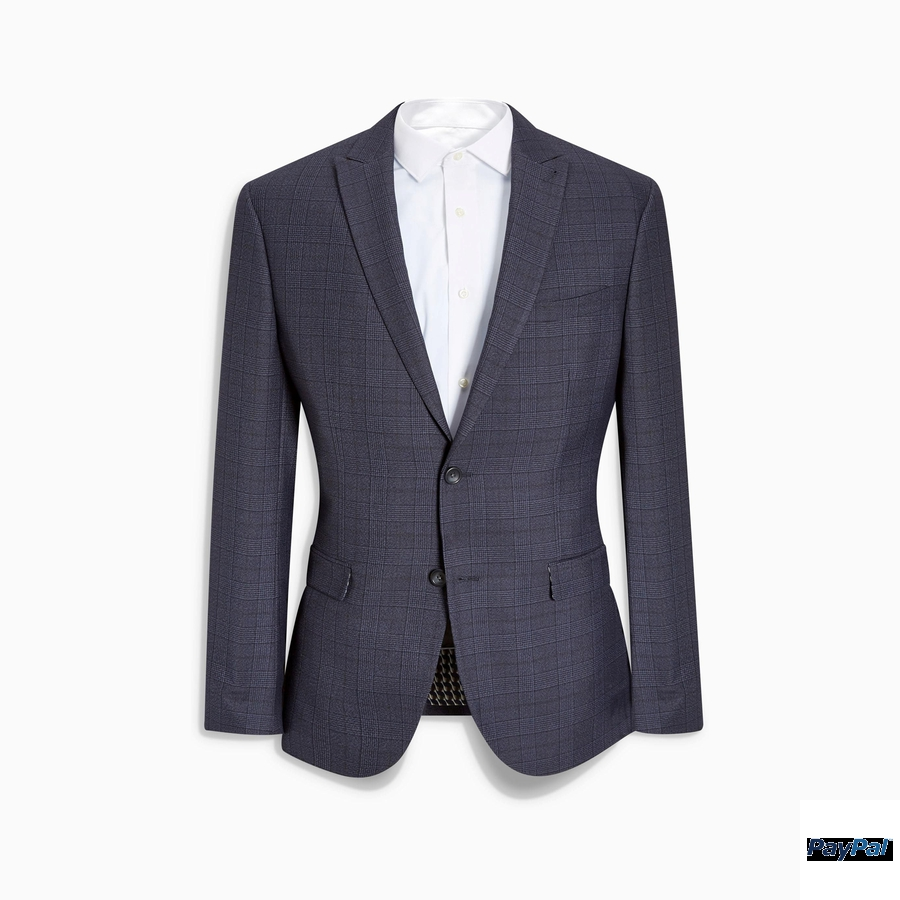
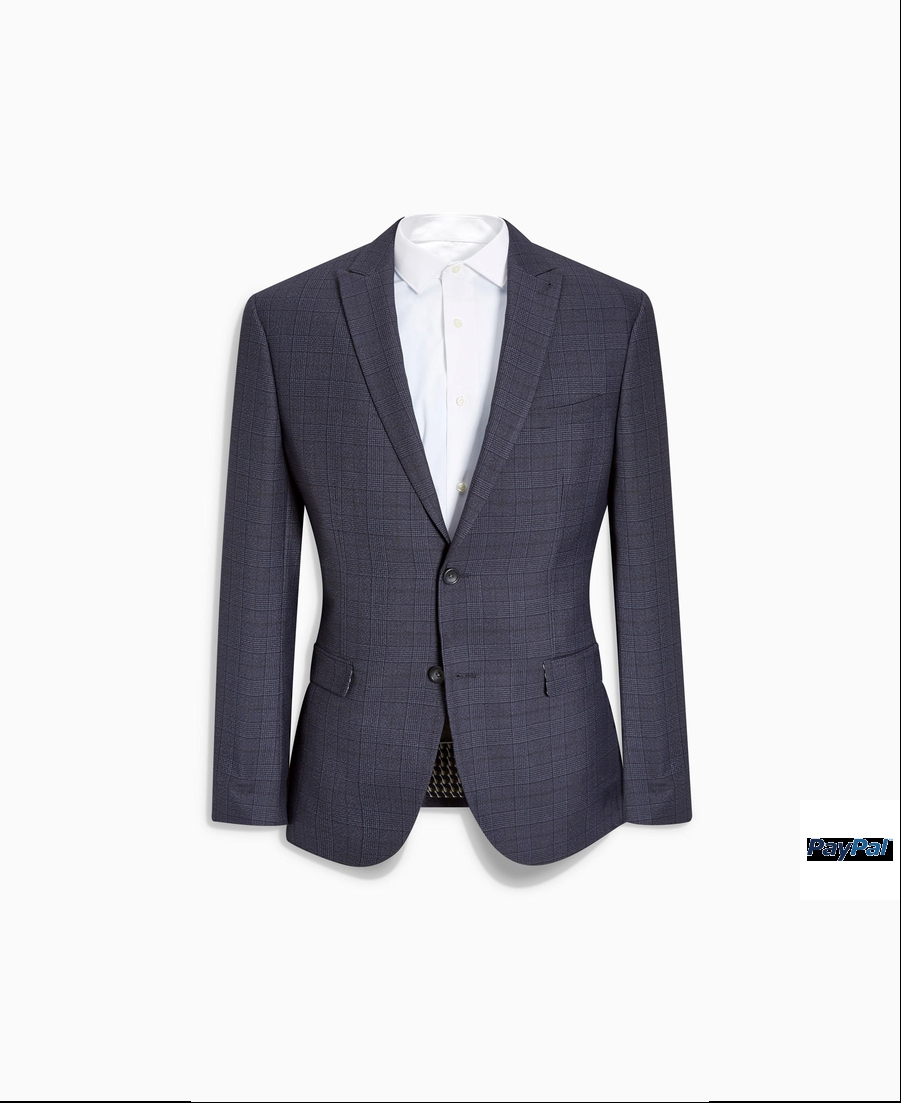
[Add] Background blending feature!

diff --git a/EdgeFind.py b/EdgeFind.py
@@ -1,6 +1,7 @@
 from PIL import Image
 from operator import itemgetter
 
+
 def GetTopPixel(threshold, image, rgbImgWidth, rgbImgHeight, r, g, b):
 	topPixel = (0, 0)
 	for i in range(rgbImgHeight):
@@ -9,6 +10,7 @@ def GetTopPixel(threshold, image, rgbImgWidth, rgbImgHeight, r, g, b):
 			if ((currentR > (1 + threshold) * r) or (currentR < threshold * r)) and ((currentG > (1 + threshold) * g) or (currentG < threshold * g)) and ((currentB > (1 + threshold) * b) or (currentB < threshold * b)):
 				topPixel = (j , i)
 				return topPixel
+
 
 def GetBottomPixel(threshold, image, rgbImgWidth, rgbImgHeight, r, g, b):
 	bottomPixel = (0, 0)
@@ -19,6 +21,7 @@ def GetBottomPixel(threshold, image, rgbImgWidth, rgbImgHeight, r, g, b):
 				bottomPixel = (j , i)
 				return bottomPixel
 
+
 def GetLeftPixel(threshold, image, rgbImgWidth, rgbImgHeight, r, g, b):
 	leftPixel = (0, 0)
 	for i in range(rgbImgWidth):
@@ -27,7 +30,8 @@ def GetLeftPixel(threshold, image, rgbImgWidth, rgbImgHeight, r, g, b):
 			if ((currentR > (1 + threshold) * r) or (currentR < threshold * r)) and ((currentG > (1 + threshold) * g) or (currentG < threshold * g)) and ((currentB > (1 + threshold) * b) or (currentB < threshold * b)):
 				leftPixel = (i , j)
 				return leftPixel
-				
+	
+
 def GetRightPixel(threshold, image, rgbImgWidth, rgbImgHeight, r, g, b):
 	rightPixel = (0, 0)
 	for i in reversed(range(rgbImgWidth)):
@@ -36,6 +40,7 @@ def GetRightPixel(threshold, image, rgbImgWidth, rgbImgHeight, r, g, b):
 			if ((currentR > (1 + threshold) * r) or (currentR < threshold * r)) and ((currentG > (1 + threshold) * g) or (currentG < threshold * g)) and ((currentB > (1 + threshold) * b) or (currentB < threshold * b)):
 				rightPixel = (i , j)
 				return rightPixel
+
 
 def FindEdges(threshold, image, r, g, b):
 	rgbImg = image.convert('RGB')
@@ -48,45 +53,80 @@ def FindEdges(threshold, image, r, g, b):
 
 	return topPixel, bottomPixel, leftPixel, rightPixel
 
+
 def CropImage(topPixel, bottomPixel, leftPixel, rightPixel, image):
 	leftPixel, topPixel, rightPixel, bottomPixel = GetBufferPixels(topPixel, bottomPixel, leftPixel, rightPixel, image)
 	image = image.crop((leftPixel[0], topPixel[1], rightPixel[0], bottomPixel[1]))
 	#"The crop rectangle, as a (left, upper, right, lower)-tuple."
 	return image
 
-def FindBackgroundColour(image):
+
+def GetBackgroundColour(image):
+	redPixels, greenPixels, bluePixels = GetBorderPixels(image)
+	averagePixel = (round(sum(redPixels) / len(redPixels)), round(sum(greenPixels) / len(greenPixels)), round(sum(bluePixels) / len(bluePixels)))
+	return averagePixel
+
+
+def GetBorderPixels(image):
 	imageWidth, imageHeight = image.size
 	redPixels = []
 	greenPixels = []
 	bluePixels = []
 
-	for x in range(imageWidth - 1):
+	for x in range(imageWidth ):
 		pixel = image.getpixel((x, 0))	
 		redPixels.append(pixel[0])
 		greenPixels.append(pixel[1])
 		bluePixels.append(pixel[2])
-	for x in range(imageWidth - 1):
+	for x in range(imageWidth):
 		pixel = image.getpixel((x, imageHeight - 1))	
 		redPixels.append(pixel[0])
 		greenPixels.append(pixel[1])
 		bluePixels.append(pixel[2])
-	for y in range(imageHeight - 1):
+	for y in range(imageHeight):
 		pixel = image.getpixel((0, y))	
 		redPixels.append(pixel[0])
 		greenPixels.append(pixel[1])
 		bluePixels.append(pixel[2])
-	for y in range(imageHeight - 1):
+	for y in range(imageHeight):
 		pixel = image.getpixel((imageWidth - 1, y))	
 		redPixels.append(pixel[0])
 		greenPixels.append(pixel[1])
 		bluePixels.append(pixel[2])
+	return redPixels, greenPixels, bluePixels
 
-################################################
-# CREATE FUNCTION FOR THIS!!!!! AND FOR FIRST FUNCTIONS!
-################################################
 
-	averagePixel = (round(sum(redPixels) / len(redPixels)), round(sum(greenPixels) / len(greenPixels)), round(sum(bluePixels) / len(bluePixels)))
-	return averagePixel
+def GetBufferPixels(topPixel, bottomPixel, leftPixel, rightPixel, image):
+	imageWidth, imageHeight = image.size
+	borderPercentage = 0.03
+
+	if leftPixel[0] - round(borderPercentage * imageWidth) >= 0:
+		leftPixel = (leftPixel[0] - round(borderPercentage * imageWidth), leftPixel[1])
+	else:
+		leftPixel = (0, leftPixel[1])
+	if topPixel[1] - round(borderPercentage * imageHeight) >= 0:
+		topPixel = (topPixel[0], topPixel[1] - round(borderPercentage * imageHeight))
+	else:
+		topPixel = (topPixel[0], 0)
+	if rightPixel[0] + round(borderPercentage * imageWidth) <= imageWidth:
+		rightPixel = (rightPixel[0] + round(borderPercentage * imageWidth), rightPixel[1])
+	else:
+		rightPixel = (imageWidth, rightPixel[1])
+	if bottomPixel[1] + round(borderPercentage * imageWidth) <= imageHeight:
+		bottomPixel = (bottomPixel[0], bottomPixel[1] + round(borderPercentage * imageHeight))
+	else:
+		bottomPixel = (bottomPixel[0], imageHeight)
+	# Buffers away from the detected edges to avoid small clipping
+	return leftPixel, topPixel, rightPixel, bottomPixel
+
+	
+def SeperateBorders(imageWidth, imageHeight, borderPixels):
+	topPixels = borderPixels[0:imageWidth]
+	bottomPixels = borderPixels[imageWidth:2*imageWidth]
+	leftPixels = borderPixels[2*imageWidth:2*imageWidth + imageHeight]
+	rightPixels = borderPixels[2*imageWidth + imageHeight:len(borderPixels)]
+	return topPixels, bottomPixels, leftPixels, rightPixels
+
 
 def SeperateRGB(colour):
 	r = colour[0]
@@ -94,42 +134,13 @@ def SeperateRGB(colour):
 	b = colour[2]
 	return r, g, b
 
-def GetBufferPixels(topPixel, bottomPixel, leftPixel, rightPixel, image):
-	imageWidth, imageHeight = image.size
 
-	if leftPixel[0] - round(0.01 * imageWidth) >= 0:
-		leftPixel = (leftPixel[0] - round(0.01 * imageWidth), leftPixel[1])
-	else:
-		leftPixel = (0, leftPixel[1])
-	if topPixel[1] - round(0.01 * imageHeight) >= 0:
-		topPixel = (topPixel[0], topPixel[1] - round(0.01 * imageHeight))
-	else:
-		topPixel = (topPixel[0], 0)
-	if rightPixel[0] + round(0.01 * imageWidth) <= imageWidth:
-		rightPixel = (rightPixel[0] + round(0.01 * imageWidth), rightPixel[1])
-	else:
-		rightPixel = (imageWidth, rightPixel[1])
-	if bottomPixel[1] + round(0.01 * imageWidth) <= imageHeight:
-		bottomPixel = (bottomPixel[0], bottomPixel[1] + round(0.01 * imageHeight))
-	else:
-		bottomPixel = (bottomPixel[0], imageHeight)
-	# Buffers away from the detected edges to avoid small clipping
-	return leftPixel, topPixel, rightPixel, bottomPixel
+def CombineRGB(redPixels, greenPixels, bluePixels):
+	pixels = []
+	for i in range(len(redPixels)):
+		pixels.append((redPixels[i], greenPixels[i], bluePixels[i]))
+	return pixels
 
-def BlendBackgrounds(image, backgroundColour):
-	image = image.convert('RGB')
-	imageWidth, imageHeight = image.size
-	buffLeftPixel, buffTopPixel, buffRightPixel, buffBottomPixel = GetBufferPixels(topPixel, bottomPixel, leftPixel, rightPixel, image)
-	backgroundSnippet = Image.new('RGB', (10, topPixel[1] - buffTopPixel[1]), backgroundColour)
-
-	test = Image.new('RGB', (10, topPixel[1] - buffTopPixel[1]), (255, 0, 0))
-
-	for x in range(0, buffRightPixel[0] - buffLeftPixel[0] + 10, 10):
-		snippet = image.crop((buffLeftPixel[0] + x, buffTopPixel[1], buffLeftPixel[0] + x + 10, buffTopPixel[1] + (topPixel[1] - buffTopPixel[1])))
-		blendedSnippet = Image.blend(snippet, backgroundSnippet, 0.5)
-		image.paste(test, (buffLeftPixel[0] + x, buffTopPixel[1]))
-
-	return image
 
 def ScaleImage(image, inputWidth, inputHeight):
 		imageWidth, imageHeight = image.size		
@@ -145,14 +156,67 @@ def ScaleImage(image, inputWidth, inputHeight):
 		else:
 			scaledHeight = inputHeight
 			scaledWidth = inputWidth
-			
+
 		return image.resize((round(scaledWidth * 0.8), round(scaledHeight * 0.8)), Image.LANCZOS)
 		# 0.8 multiplier to make sure there is a border between the image and the background		
 		# Scales the image, whilst maintaining the aspect ratio
+
 		
 def CentreImage(image, image2):
 	locationX = int(image.width / 2 - image2.width / 2)
 	locationY = int(image.height / 2 - image2.height / 2)
-	# Finds the location on the image for image2 to be centred
+	# Finds the location on image for image2 to be centred
 	image.paste(image2, (locationX, locationY))
 	return image
+
+
+def BlendBackgrounds(image, backgroundWidth, backgroundHeight):
+	image = image.convert('RGB')
+	imageWidth, imageHeight = image.size
+	print(imageWidth)
+
+	blendLength = round((backgroundWidth - imageWidth) / 2)
+
+	borderedImage = CentreImage(Image.new('RGB', (imageWidth + blendLength * 2 + 1, imageHeight + blendLength * 2 + 1)), image)
+
+	for x in range(imageWidth):
+		pixel = image.getpixel((x, 0))
+		borderedImage.paste(Image.new('RGB', (1, blendLength), pixel), (blendLength + x, 0)) 
+		# Top fill
+
+		pixel = image.getpixel((x, imageHeight - 1))	
+		borderedImage.paste(Image.new('RGB', (1, blendLength), pixel), (blendLength + x, imageHeight + blendLength)) 
+		# Bottom fill
+
+	for y in range(imageHeight - 1):
+		pixel = image.getpixel((0, y))
+		borderedImage.paste(Image.new('RGB', (blendLength, 1), pixel), (0, blendLength + y)) 
+		# Left fill
+
+		pixel = image.getpixel((imageWidth - 1, y))	
+		borderedImage.paste(Image.new('RGB', (blendLength, 1), pixel), (imageWidth + blendLength, blendLength + y)) 
+		# Right fill
+
+	cornerFillSize = (blendLength, blendLength)
+
+	pixel = borderedImage.getpixel((blendLength, blendLength))
+	borderedImage.paste(Image.new('RGB', cornerFillSize, pixel), (0, 0))
+	# Top left corner fill
+
+	pixel = borderedImage.getpixel((blendLength, blendLength + imageHeight))
+	borderedImage.paste(Image.new('RGB', cornerFillSize, pixel), (0, blendLength + imageHeight - 1))
+	# Bottom left corner fill
+
+	pixel = borderedImage.getpixel((blendLength + imageWidth, blendLength))
+	borderedImage.paste(Image.new('RGB', cornerFillSize, pixel), (blendLength + imageWidth, 0))
+	# Top right corner fill
+
+	pixel = borderedImage.getpixel((blendLength + imageWidth - 1, blendLength + imageHeight - 1))
+	borderedImage.paste(Image.new('RGB', cornerFillSize, pixel), (blendLength + imageWidth, blendLength + imageHeight - 1))
+	# Bottom right corner fill
+	
+	return borderedImage
+
+
+
+

diff --git a/main.py b/main.py
@@ -24,16 +24,11 @@ for fileName in inputFiles:
 
 	if CheckImageExists(workingDirectory + "/input/" + fileName) == True:
 
-		#productCode = GetProductCode(fileName)
-		# CheckDirectoryExists(workingDirectory + "/output/" + productCode)
 		product = Image.open(workingDirectory + "/input/" + fileName)
 		productWidth, productHeight = product.size
 
-		backgroundColour = FindBackgroundColour(product)
+		backgroundColour = GetBackgroundColour(product)
 		r, g, b = SeperateRGB(backgroundColour)
-
-		background = Image.new('RGB', (backgroundWidth, backgroundHeight), backgroundColour)
-		# Creates a solid colour for a background
 
 		topPixel, bottomPixel, leftPixel, rightPixel = FindEdges(threshold, product, r, g, b)
 
@@ -43,26 +38,18 @@ for fileName in inputFiles:
 
 		scaledImage = ScaleImage(product, backgroundWidth, backgroundHeight)
 
-		##############
-		# TEST TO SEE IF SCALE FUNCTION IS BETTER THEN THUMBNAIL IIN TERMS OF QUAL.!
-		##############
-
-		#blendedImage = BlendBackgrounds(scaledImage, backgroundColour)
-
-		editedImage = CentreImage(background, scaledImage)
-		# Pastes and centres the product onto the background
+		blendedImage = BlendBackgrounds(scaledImage, backgroundWidth, backgroundHeight)
 
 		if CheckImageExists(workingDirectory + "/logos/logo.png", debug = False) == True:
 			if (logoWidth <= backgroundWidth) and (logoHeight <= backgroundHeight): 
-				background.paste(logo, (backgroundWidth - logoWidth, backgroundHeight - logoHeight))
+				blendedImage.paste(logo, (backgroundWidth - logoWidth, backgroundHeight - logoHeight))
 				# Pastes the logo onto the bottom right corner
 				# Checks to see if the logo fits onto the background
 			else:
 				print("Logo does not fit onto background!")
 
-		editedImage.save(workingDirectory + '/output/' + fileName, quality = 100)
+		blendedImage.save(workingDirectory + '/output/' + fileName, quality = 100)
 		# Saves the image to the output folder
-		background.close()
 
 
 
